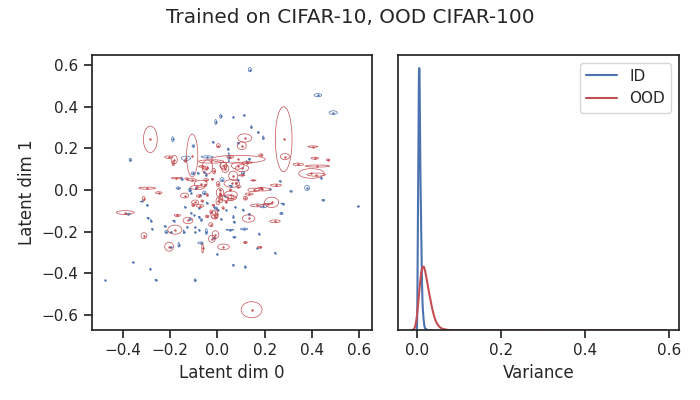
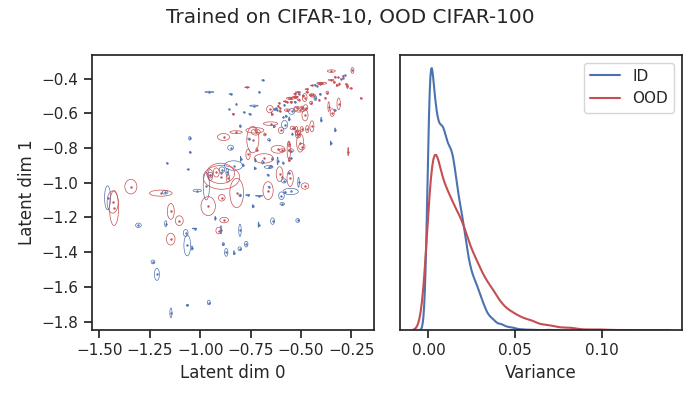
Added metrics for uncertainty for Laplace.

diff --git a/src/visualization/plot_roc.py b/src/visualization/plot_roc.py
@@ -1,0 +1,103 @@
+from matplotlib import pyplot as plt
+import numpy as np
+import pandas as pd
+import torch
+import torchmetrics
+import seaborn as sns
+
+sns.set_theme(style="ticks")
+
+
+def compute_and_plot_roc_curves(path, id_sigma, ood_sigma, pre_fix=""):
+
+    id_sigma = np.reshape(id_sigma, (id_sigma.shape[0], -1))
+    ood_sigma = np.reshape(ood_sigma, (ood_sigma.shape[0], -1))
+
+    id_sigma, ood_sigma = id_sigma.sum(axis=1), ood_sigma.sum(axis=1)
+
+    pred = np.concatenate([id_sigma, ood_sigma])
+    target = np.concatenate([[0] * len(id_sigma), [1] * len(ood_sigma)])
+
+    # plot roc curve
+    roc = torchmetrics.ROC(num_classes=1)
+    fpr, tpr, thresholds = roc(torch.tensor(pred).unsqueeze(1), torch.tensor(target).unsqueeze(1))
+
+    fig, ax = plt.subplots(1, 1, figsize=(4, 4))
+    ax.plot(fpr, tpr)
+    ax.set(
+        xlabel="False Positive Rate",
+        ylabel="True Positive Rate",
+    )
+    fig.tight_layout()
+    fig.savefig(f"figures/{path}/{pre_fix}ood_roc_curve.png")
+
+    # save data
+    # data = pd.DataFrame(
+    #     np.concatenate([pred[:, None], target[:, None]], axis=1),
+    #     columns=["sigma", "labels"],
+    # )
+    # data.to_csv(f"figures/{path}/{pre_fix}ood_roc_curve_data.csv")
+
+    # plot precision recall curve
+    pr_curve = torchmetrics.PrecisionRecallCurve(pos_label=1)
+    precision, recall, thresholds = pr_curve(torch.tensor(pred).unsqueeze(1), torch.tensor(target).unsqueeze(1))
+
+    fig, ax = plt.subplots(1, 1, figsize=(4, 4))
+    ax.plot(recall, precision)
+    ax.set(
+        xlabel="Recall",
+        ylabel="Precision",
+    )
+    fig.tight_layout()
+    fig.savefig(f"figures/{path}/{pre_fix}ood_precision_recall_curve.png")
+
+    metrics = {}
+
+    # compute auprc (area under precission recall curve)
+    auc = torchmetrics.AUC(reorder=True)
+    auprc_score = auc(recall, precision)
+    metrics["auprc"] = float(auprc_score.numpy())
+
+    # compute false positive rate at 80
+    num_id = len(id_sigma)
+
+    for p in range(0, 100, 10):
+        # if there is no difference in variance
+        try:
+            metrics[f"fpr{p}"] = float(fpr[int(p / 100.0 * num_id)].numpy())
+        except:
+            metrics[f"fpr{p}"] = "none"
+        else:
+            continue
+
+    # compute auroc
+    auroc = torchmetrics.AUROC(num_classes=1)
+    auroc_score = auroc(torch.tensor(pred).unsqueeze(1), torch.tensor(target).unsqueeze(1))
+    metrics["auroc"] = float(auroc_score.numpy())
+
+    return metrics
+
+    # # save metrics
+    # with open(f"../figures/{path}/{pre_fix}ood_metrics.json", "w") as outfile:
+    #     json.dump(metrics, outfile)
+
+
+if __name__ == "__main__":
+    id_title = "CIFAR-10"
+    id_label = id_title.lower()
+
+    ood_title = "SVHN"
+    # ood_title = "CIFAR-100"
+    ood_label = ood_title.lower()
+
+    mu_id = np.load(f"results/laplace/{id_label}/id_laplace_mu.npy")
+    var_id = np.load(f"results/laplace/{id_label}/id_laplace_sigma_sq.npy")
+    mu_ood = np.load(f"results/laplace/{id_label}/{ood_label}/ood_laplace_mu.npy")
+    var_ood = np.load(f"results/laplace/{id_label}/{ood_label}/ood_laplace_sigma_sq.npy")
+
+    metrics = compute_and_plot_roc_curves("", var_id, var_ood, pre_fix=f"{id_label}_{ood_label}_")
+    print(metrics)
+    # fig, ax = plot_ood(mu_id, var_id, mu_ood, var_ood)
+    # fig.suptitle(f"Trained on {id_title}, OOD {ood_title}")
+    # fig.tight_layout()
+    # fig.savefig(f"figures/ood_plot_{id_label}_{ood_label}.png")

diff --git a/src/laplace/post_hoc.py b/src/laplace/post_hoc.py
@@ -8,6 +8,7 @@ from torchvision.datasets import CIFAR10, CIFAR100, SVHN
 from torchvision import transforms
 from tqdm import tqdm
 from torchvision.models import resnet50
+from laplace.metric_learning import train_metric
 
 from src.models.conv_net import ConvNet
 from src.laplace.hessian.layerwise import ContrastiveHessianCalculator
@@ -18,6 +19,7 @@ from src import data
 def post_hoc(
     model: nn.Module,
     train_loader: DataLoader,
+    margin: float,
     device="cpu",
 ):
     """
@@ -28,7 +30,7 @@ def post_hoc(
 
     images_per_class = 5000
 
-    calculator = ContrastiveHessianCalculator()
+    calculator = ContrastiveHessianCalculator(margin=margin)
     calculator.init_model(model.linear)
     compute_hessian = calculator.compute_batch_pairs
     miner = AllCombinationsMiner()
@@ -65,6 +67,9 @@ if __name__ == "__main__":
 
     latent_dim = 25
     batch_size = 16
+    epochs = 30
+    lr = 3e-4
+    margin = 0.2
 
     id_module = data.CIFAR10DataModule("data/", batch_size, 4)
     id_module.setup()
@@ -77,8 +82,10 @@ if __name__ == "__main__":
 
     model = ConvNet(latent_dim).to(device)
     # model = resnet50(num_classes=latent_dim, pretrained=False).to(device)
-    model.load_state_dict(torch.load("pretrained/laplace/state_dict.pt", map_location=device))
 
-    mu_q, sigma_q = post_hoc(model, train_loader, device)
+    # model.load_state_dict(torch.load("pretrained/laplace/state_dict.pt", map_location=device))
+    train_metric(model, train_loader, epochs, lr, margin, device)
+
+    mu_q, sigma_q = post_hoc(model, train_loader, margin, device)
     torch.save(mu_q.detach().cpu(), "pretrained/laplace/laplace_mu.pt")
     torch.save(sigma_q.detach().cpu(), "pretrained/laplace/laplace_sigma.pt")

diff --git a/src/laplace/metric_learning.py b/src/laplace/metric_learning.py
@@ -15,12 +15,12 @@ from src.models.conv_net import ConvNet
 from src import data
 
 
-def train_metric(net: nn.Module, train_loader: DataLoader, epochs: int, lr: float, device="cpu"):
+def train_metric(net: nn.Module, train_loader: DataLoader, epochs: int, lr: float, margin: float, device="cpu"):
     """
     Train a metric learning model.
     """
     miner = miners.MultiSimilarityMiner()
-    contrastive_loss = losses.ContrastiveLoss()
+    contrastive_loss = losses.ContrastiveLoss(neg_margin=0.2)
     optim = Adam(net.parameters(), lr=lr)
     for epoch in tqdm(range(epochs)):
         for x, y in train_loader:
@@ -42,6 +42,7 @@ if __name__ == "__main__":
     epochs = 30
     lr = 3e-4
     batch_size = 16
+    margin = 0.2
 
     id_module = data.CIFAR10DataModule("data/", batch_size, 4)
     id_module.setup()
@@ -52,7 +53,7 @@ if __name__ == "__main__":
     # model = resnet50(num_classes=latent_dim, pretrained=False).to(device)
 
     logging.info("Finding MAP solution.")
-    train_metric(model, train_loader, epochs, lr, device)
+    train_metric(model, train_loader, epochs, lr, margin, device)
     torch.save(model.state_dict(), "pretrained/laplace/state_dict.pt")
 
     k = 10

diff --git a/src/laplace/evaluate.py b/src/laplace/evaluate.py
@@ -40,7 +40,7 @@ if __name__ == "__main__":
     train_loader = id_module.train_dataloader()
     id_loader = id_module.test_dataloader()
 
-    ood_module = data.CIFAR100DataModule("data/", batch_size, 4)
+    ood_module = data.SVHNDataModule("data/", batch_size, 4)
     ood_module.setup()
     ood_loader = ood_module.test_dataloader()
 
